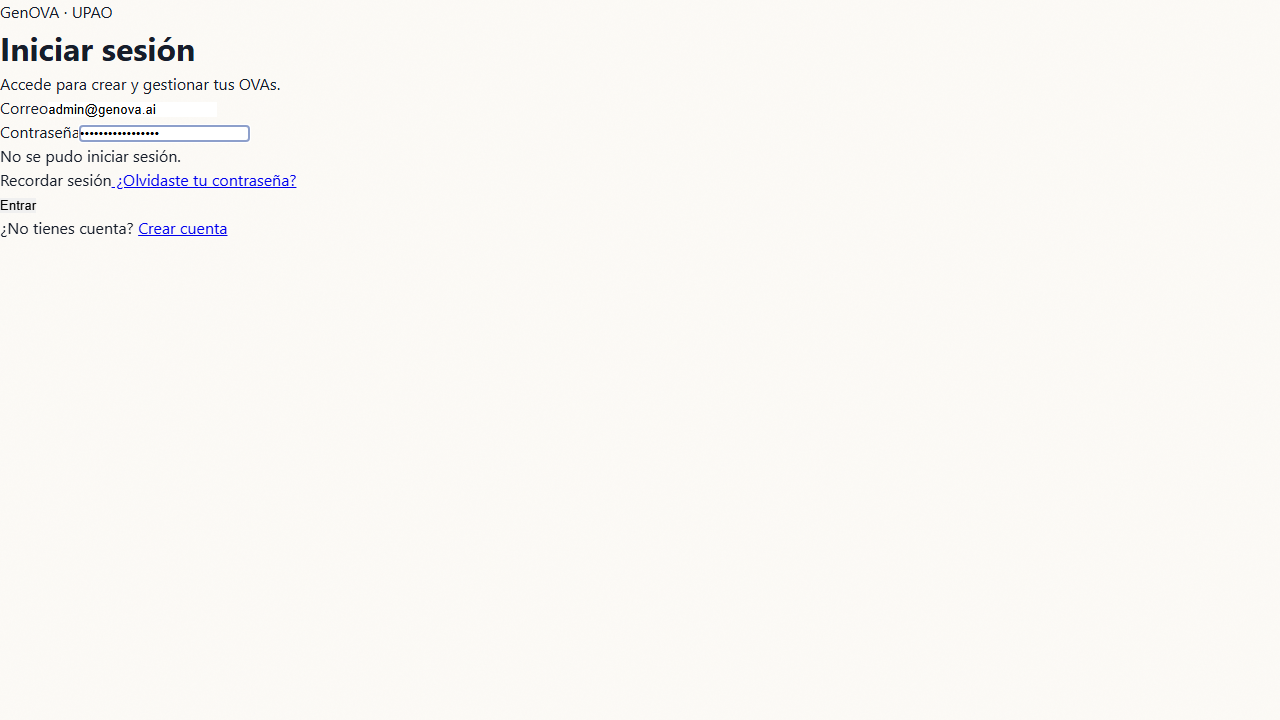
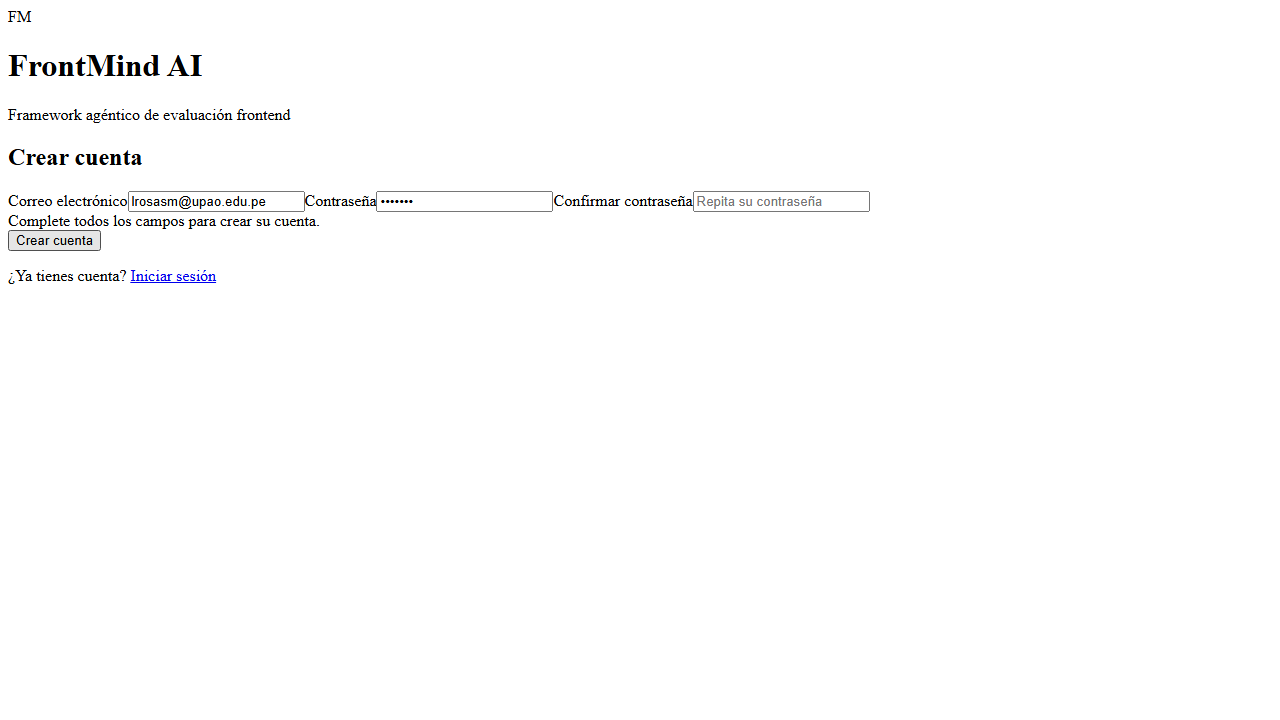
fix: remove page.close() inside route iteration to prevent TargetClosedError

Changed region(s): [[0.0, 0.0611, 0.3125, 0.3972], [0.4375, 0.275, 0.6562, 0.3056], [0.0, 0.0, 0.0938, 0.0306]]

diff --git a/frontmind-agents/services/screenshot_worker_impl.py b/frontmind-agents/services/screenshot_worker_impl.py
@@ -282,6 +282,9 @@ def take_screenshots(
             # Solo agregar el listener si es necesario, o dejar el que ya está.
             
             # Block known trackers to prevent networkidle hangs
+            try:
+                page.unroute_all()
+            except: pass
             page.route("**/*google-analytics*", lambda route: route.abort())
             page.route("**/*googletagmanager*", lambda route: route.abort())
             page.route("**/*hotjar*", lambda route: route.abort())
@@ -357,8 +360,6 @@ def take_screenshots(
                     }
                 )
 
-            finally:
-                page.close()
 
             successful = sum(
                 1